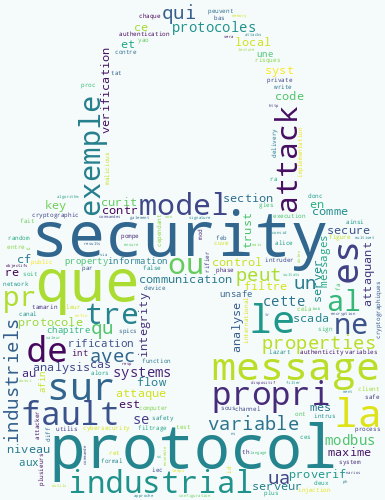
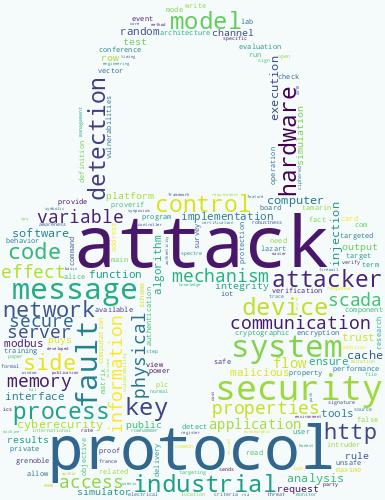
Added: wordcloud

Changed region(s): [[0.0, 0.0, 0.9974, 1.0]]

diff --git a/author/maxime-puys.html b/author/maxime-puys.html
@@ -1575,7 +1575,10 @@ Grenoble (formerly SAFE master).</li>
 d'Albertville.</li>
 <li>[<a href="http://akwtg.asso.fr/">AKWTG</a>] Académie de Kung fu Wushu et Taichi
 chuan de Grenoble.</li>
-</ul></div>
+</ul>
+<p align="center">
+    <img src="images/wordcloud.png" />
+</p></div>
   </div>
 </article>
 

diff --git a/index.html b/index.html
@@ -1575,7 +1575,10 @@ Grenoble (formerly SAFE master).</li>
 d'Albertville.</li>
 <li>[<a href="http://akwtg.asso.fr/">AKWTG</a>] Académie de Kung fu Wushu et Taichi
 chuan de Grenoble.</li>
-</ul></div>
+</ul>
+<p align="center">
+    <img src="images/wordcloud.png" />
+</p></div>
   </div>
 </article>
 

diff --git a/category/40.html b/category/40.html
@@ -185,7 +185,10 @@ Grenoble (formerly SAFE master).</li>
 d'Albertville.</li>
 <li>[<a href="http://akwtg.asso.fr/">AKWTG</a>] Académie de Kung fu Wushu et Taichi
 chuan de Grenoble.</li>
-</ul></div>
+</ul>
+<p align="center">
+    <img src="images/wordcloud.png" />
+</p></div>
   </div>
 </article>
 

diff --git a/links.html b/links.html
@@ -194,6 +194,9 @@ d'Albertville.</li>
 <li>[<a href="http://akwtg.asso.fr/">AKWTG</a>] Académie de Kung fu Wushu et Taichi
 chuan de Grenoble.</li>
 </ul>
+<p align="center">
+    <img src="images/wordcloud.png" />
+</p>
   </div>
 
 </article>
